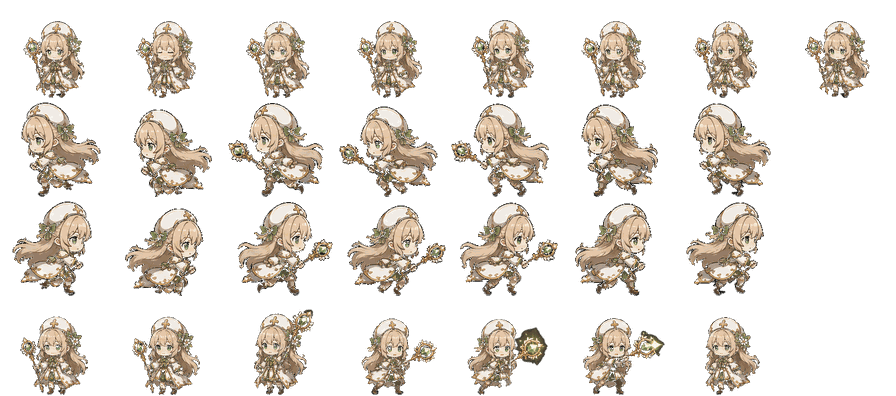
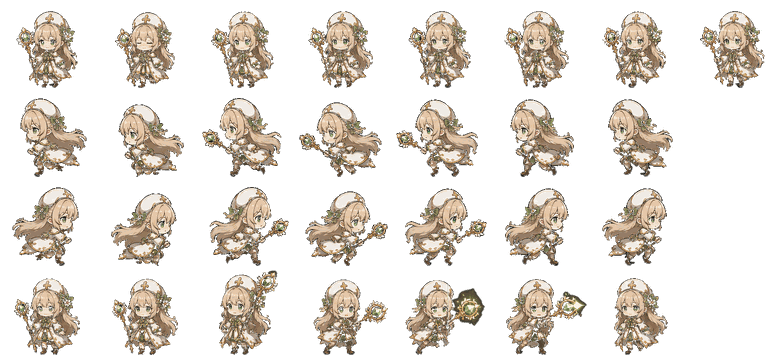
힐러: 주인공의 서기·걷기 크기를 맞춘다 (배포 2026-09-05.6)
시트를 구울 때 줄마다 모자 폭으로 크기를 맞췄는데, 걷는 프레임은 고개를 숙여
모자가 좁아 보인다. 그 폭에 맞추다 보니 걷는 주인공만 20% 커져서, 걷기 시작할
때마다 인물이 뛰었다(재 보니 서기 75px, 걷기 91px).

키를 직접 재서 맞춘다 — 발바닥에서 모자 꼭대기까지, 모자 꼭대기는 가로로 18픽셀
넘게 이어지는 첫 줄이다. 지팡이와 빛은 그보다 가늘어 걸리지 않는다. 줄 안에서
웅크린 프레임이 짧은 것은 살려야 할 움직임이라 배율은 줄마다 하나씩 가운데값으로
잡는다. 다시 구운 뒤 서기 75 · 걷기 71~77 · 공격 74~79로 모였다.

칸이 112×99에서 98×89로 줄어 자르는 자리도 다시 쟀다.

Claude-Session: https://claude.ai/code/session_015YSpsURuUqPhSx5KiHykMJ

diff --git a/games/healer/sprites.js b/games/healer/sprites.js
@@ -356,7 +356,7 @@ const SPRITES = {
 const SHEETS = {
   hero: {
     src: 'hero.png',
-    cell: { w: 112, h: 99 },
+    cell: { w: 98, h: 89 },
     cols: 8, rows: 4,
     // **칸을 화면에서 몇 칸 높이로 그릴지.** 다른 그림은 상자가 곧 인물이지만
     // 이 시트는 공격에서 지팡이를 높이 들어 칸 위쪽이 비어 있다 — 22로 두면
@@ -372,8 +372,8 @@ const SHEETS = {
     // 서 있는 인물, 초상화는 머리만이다.
     crops: {
       full: { x: 0, y: 0, w: 1, h: 1 },
-      list: { x: 0.19, y: 0.18, w: 0.60, h: 0.82 },
-      head: { x: 0.30, y: 0.17, w: 0.42, h: 0.52 },
+      list: { x: 0.14, y: 0.10, w: 0.68, h: 0.90 },
+      head: { x: 0.27, y: 0.08, w: 0.48, h: 0.57 },
     },
   },
 };

diff --git a/index.html b/index.html
@@ -105,7 +105,7 @@
     <a href="https://github.com/cshlacid/web-games">GitHub</a>
     <!-- 배포 표시. main에 머지할 때마다 올린다 — 규칙은 CLAUDE.md에 있다.
          날짜에 그날의 번호를 붙여, 같은 날 여러 번 올려도 구별된다. -->
-    <span class="deploy">2026-09-05.5</span>
+    <span class="deploy">2026-09-05.6</span>
   </footer>
 </main>
 

diff --git a/CLAUDE.md b/CLAUDE.md
@@ -114,7 +114,7 @@
   **시안을 받은 캐릭터만 그림 파일을 쓴다** — 나머지는 여전히 도형이고, 새 그림을
   도형으로 그릴 수 없을 때에만 여기에 더한다. 그림 파일을 들일 때 지키는 것:
   프레임을 격자 한 장에 담아 요청을 하나로 두고, 화면에서 쓰는 크기의 두 배쯤에서
-  자르며(주인공은 칸 112×99, 화면에서 가장 큰 자리가 34px), 어느 화면에 어떤 칸을
+  자르며(주인공은 칸 98×89, 화면에서 가장 큰 자리가 34px), 어느 화면에 어떤 칸을
   쓰는지는 자료로 적어 둔다(`sprites.js`의 `SHEETS`). 소리는 예외가 없다.
 - **아이콘도 그림이라 이모지나 기호 문자로 대신하지 않는다.** 글꼴이 그리는
   그림이라 기기마다 모양과 크기가 다르고(⌫와 ↶는 아예 안 그리는 글꼴도 있다),
